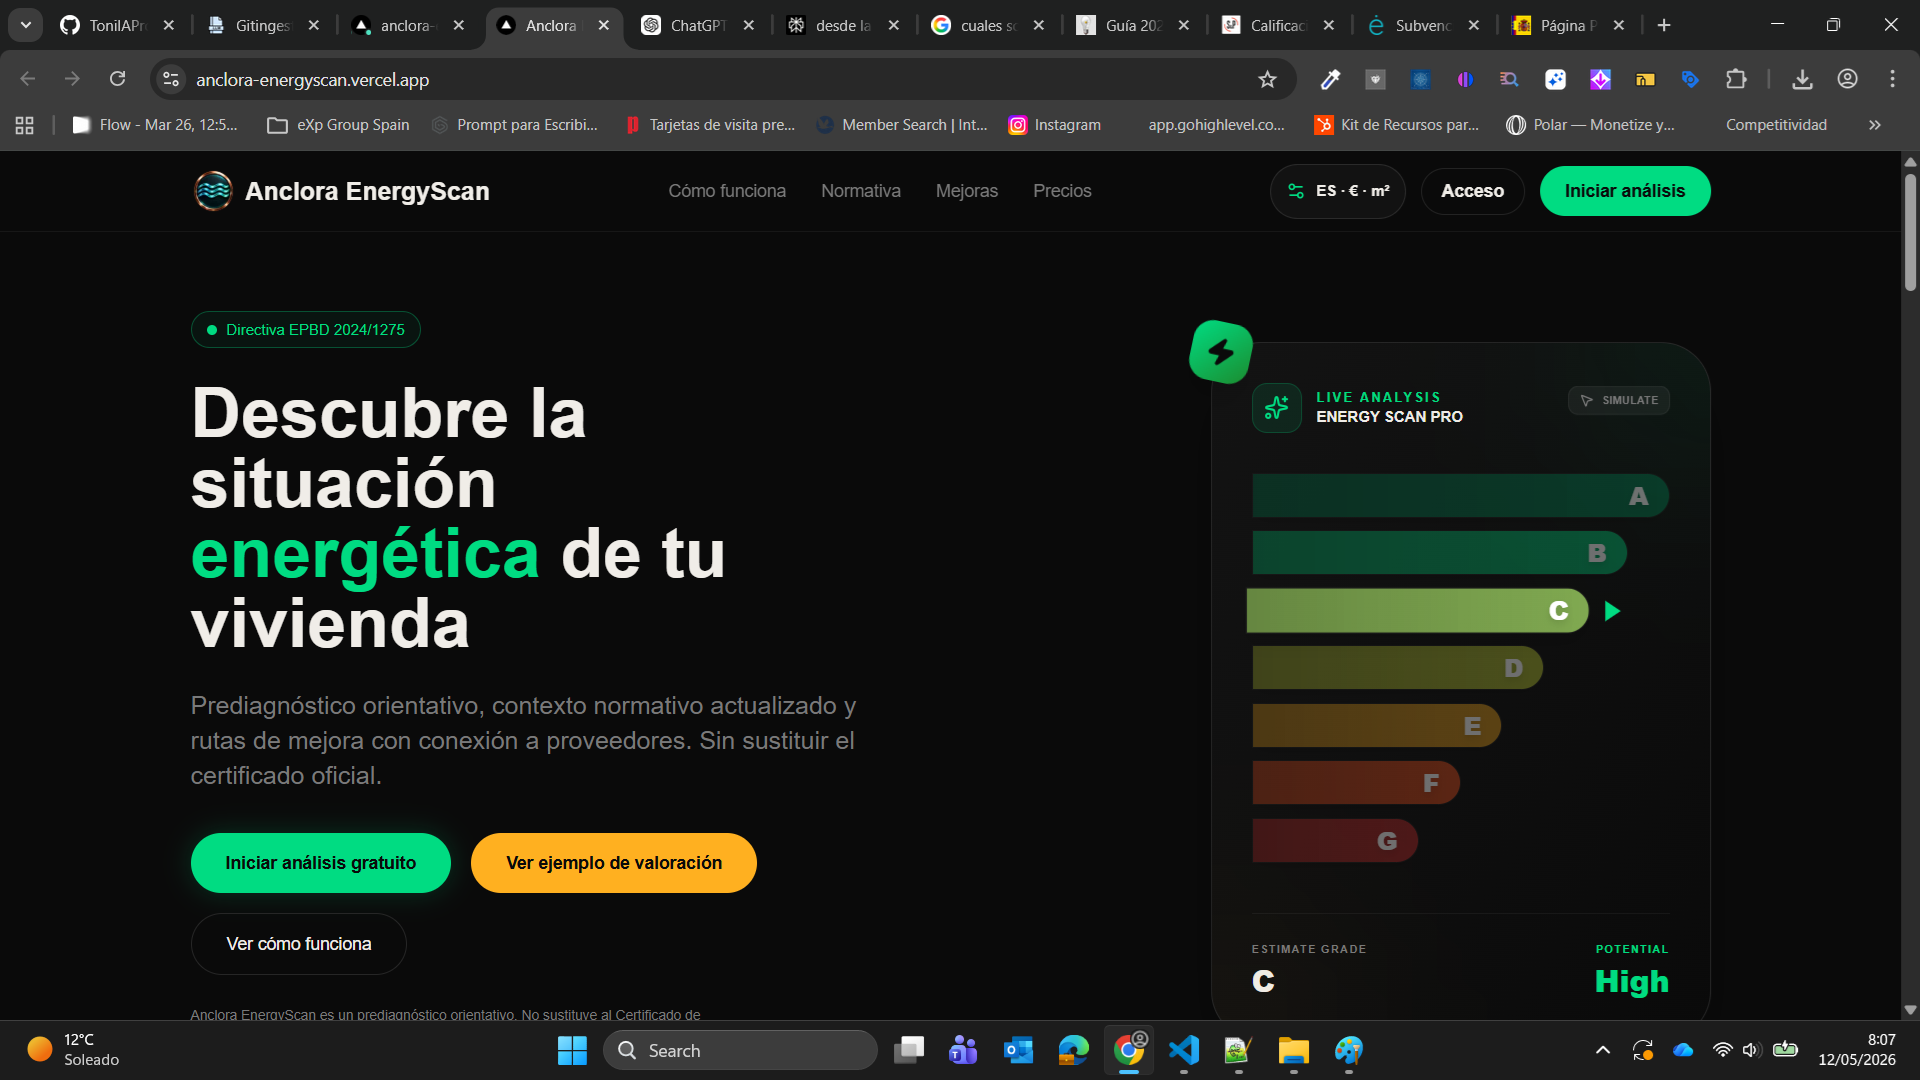
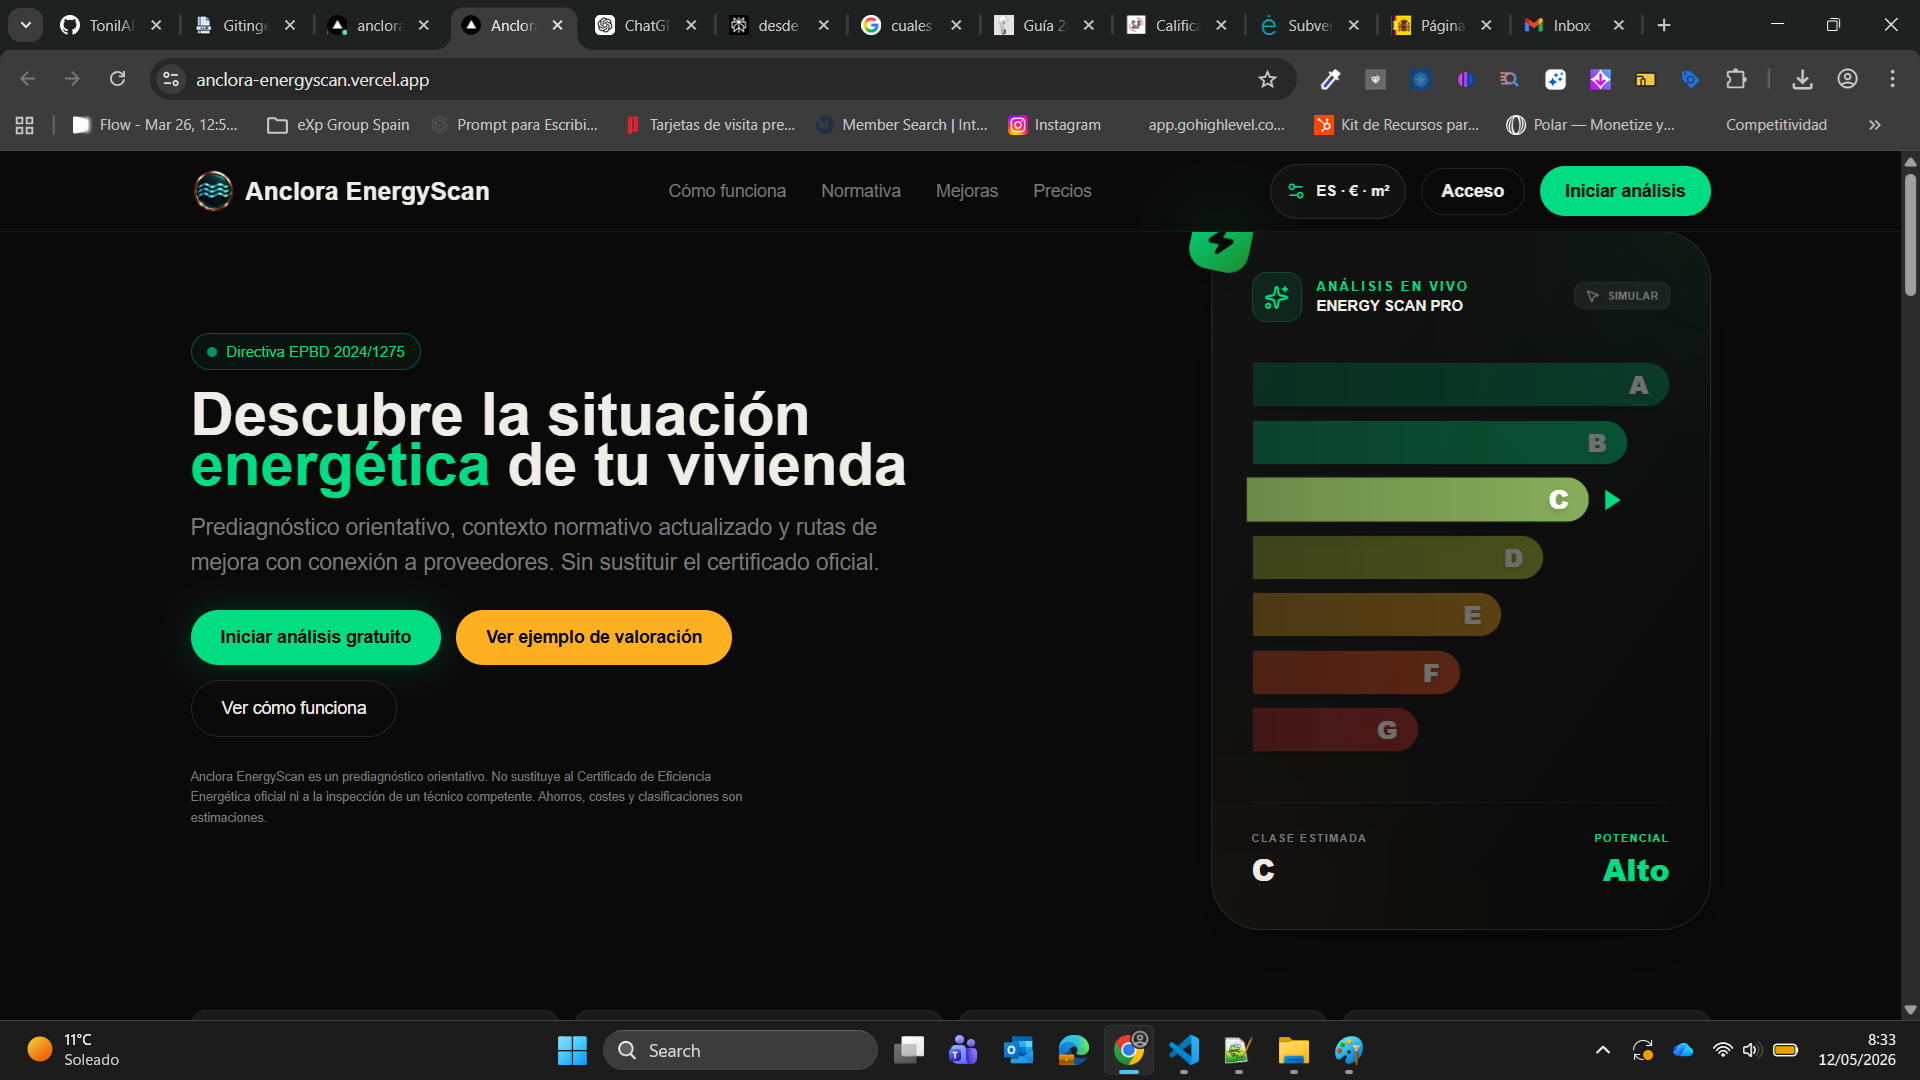
fix: adjust hero layout spacing to prevent component clipping

diff --git a/src/app/page.tsx b/src/app/page.tsx
@@ -48,8 +48,8 @@ export default function LandingPage() {
 
       <main>
         {/* HERO SECTION */}
-        <section className="relative min-h-[calc(100vh-64px)] flex items-center pt-8">
-          <div className="relative z-10 max-w-7xl mx-auto px-4 sm:px-6 lg:px-8 py-8 w-full">
+        <section className="relative min-h-[calc(100vh-64px)] flex items-center pt-16 lg:pt-20">
+          <div className="relative z-10 max-w-7xl mx-auto px-4 sm:px-6 lg:px-8 py-4 w-full">
             <div className="grid lg:grid-cols-2 gap-8 lg:gap-12 items-center">
               <div>
                 <div className="inline-flex items-center gap-2 px-3 py-1.5 rounded-full border border-[#00DC82]/30 bg-[#00DC82]/5 mb-4">

diff --git a/src/components/HeroEnergyScale.tsx b/src/components/HeroEnergyScale.tsx
@@ -40,7 +40,7 @@ export function HeroEnergyScale() {
   }, [isCalculating, currentIndex, targetIndex]);
 
   return (
-    <div className="flex justify-center lg:justify-end">
+    <div className="flex justify-center lg:justify-end py-4">
       <div 
         onClick={startCalculation}
         className="group relative cursor-pointer"